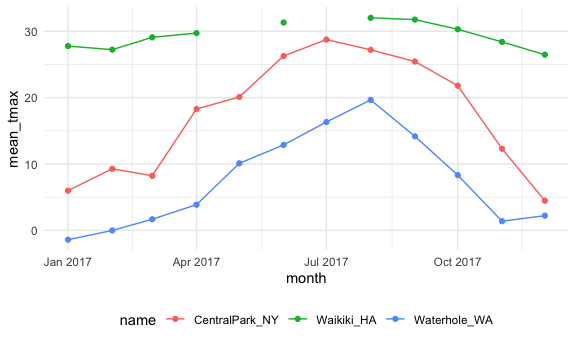
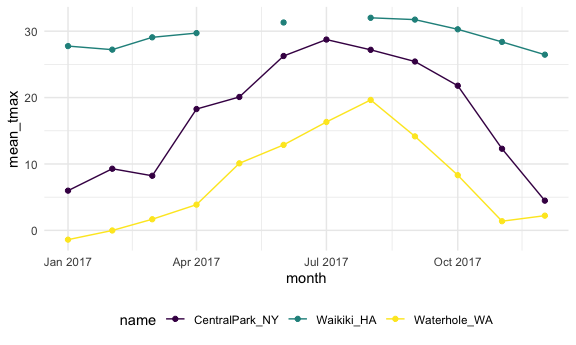
group_by, mutate, and summaries

diff --git a/viz_3.md b/viz_3.md
@@ -32,7 +32,7 @@ options(
   ggplot2.continuous.fill = "viridis"
 )
 
-scale_color_discrete = scale_color_viridis_d
+scale_colour_discrete = scale_colour_viridis_d
 scale_fill_discrete = scale_fill_viridis_d
 ```
 
@@ -338,3 +338,117 @@ weather_df %>%
 | 2017-10-01 |            21.8 |        30.3 |           8.3 |
 | 2017-11-01 |            12.3 |        28.4 |           1.4 |
 | 2017-12-01 |             4.5 |        26.5 |           2.2 |
+
+## `group_by` and `mutate`
+
+``` r
+weather_df %>%
+  group_by(name) %>%
+  mutate(
+    mean_tmax = mean(tmax, na.rm = TRUE),
+    centered_tmax = tmax - mean_tmax) %>% 
+  ggplot(aes(x = date, y = centered_tmax, color = name)) + 
+    geom_point()
+```
+
+    ## Warning: Removed 3 rows containing missing values (geom_point).
+
+<img src="viz_3_files/figure-gfm/unnamed-chunk-13-1.png" width="90%" />
+
+what about window function
+
+Ranking
+
+``` r
+weather_df %>%
+  group_by(name, month) %>%
+  mutate(temp_ranking = min_rank(tmax))
+```
+
+    ## # A tibble: 1,095 x 8
+    ## # Groups:   name, month [36]
+    ##    name          id         date        prcp  tmax  tmin month      temp_ranking
+    ##    <chr>         <chr>      <date>     <dbl> <dbl> <dbl> <date>            <int>
+    ##  1 CentralPark_… USW000947… 2017-01-01     0   8.9   4.4 2017-01-01           22
+    ##  2 CentralPark_… USW000947… 2017-01-02    53   5     2.8 2017-01-01           12
+    ##  3 CentralPark_… USW000947… 2017-01-03   147   6.1   3.9 2017-01-01           15
+    ##  4 CentralPark_… USW000947… 2017-01-04     0  11.1   1.1 2017-01-01           27
+    ##  5 CentralPark_… USW000947… 2017-01-05     0   1.1  -2.7 2017-01-01            5
+    ##  6 CentralPark_… USW000947… 2017-01-06    13   0.6  -3.8 2017-01-01            4
+    ##  7 CentralPark_… USW000947… 2017-01-07    81  -3.2  -6.6 2017-01-01            3
+    ##  8 CentralPark_… USW000947… 2017-01-08     0  -3.8  -8.8 2017-01-01            2
+    ##  9 CentralPark_… USW000947… 2017-01-09     0  -4.9  -9.9 2017-01-01            1
+    ## 10 CentralPark_… USW000947… 2017-01-10     0   7.8  -6   2017-01-01           21
+    ## # … with 1,085 more rows
+
+``` r
+#mutate(temp_ranking = min_rank(desc(tmax)))
+```
+
+keep only the day with the lowest max temperature within each month:
+
+``` r
+weather_df %>%
+  group_by(name, month) %>%
+  filter(min_rank(tmax) < 2)
+```
+
+    ## # A tibble: 42 x 7
+    ## # Groups:   name, month [36]
+    ##    name           id          date        prcp  tmax  tmin month     
+    ##    <chr>          <chr>       <date>     <dbl> <dbl> <dbl> <date>    
+    ##  1 CentralPark_NY USW00094728 2017-01-09     0  -4.9  -9.9 2017-01-01
+    ##  2 CentralPark_NY USW00094728 2017-02-10     0   0    -7.1 2017-02-01
+    ##  3 CentralPark_NY USW00094728 2017-03-15     0  -3.2  -6.6 2017-03-01
+    ##  4 CentralPark_NY USW00094728 2017-04-01     0   8.9   2.8 2017-04-01
+    ##  5 CentralPark_NY USW00094728 2017-05-13   409  11.7   7.2 2017-05-01
+    ##  6 CentralPark_NY USW00094728 2017-06-06    15  14.4  11.1 2017-06-01
+    ##  7 CentralPark_NY USW00094728 2017-07-25     0  21.7  16.7 2017-07-01
+    ##  8 CentralPark_NY USW00094728 2017-08-29    74  20    16.1 2017-08-01
+    ##  9 CentralPark_NY USW00094728 2017-09-30     0  18.9  12.2 2017-09-01
+    ## 10 CentralPark_NY USW00094728 2017-10-31     0  13.9   7.2 2017-10-01
+    ## # … with 32 more rows
+
+keep the three days with the highest max temperature:
+
+``` r
+weather_df %>%
+  group_by(name, month) %>%
+  filter(min_rank(desc(tmax)) < 4)
+```
+
+    ## # A tibble: 149 x 7
+    ## # Groups:   name, month [36]
+    ##    name           id          date        prcp  tmax  tmin month     
+    ##    <chr>          <chr>       <date>     <dbl> <dbl> <dbl> <date>    
+    ##  1 CentralPark_NY USW00094728 2017-01-12    13  18.9   8.3 2017-01-01
+    ##  2 CentralPark_NY USW00094728 2017-01-13     0  16.7   0   2017-01-01
+    ##  3 CentralPark_NY USW00094728 2017-01-26     5  13.3   6.1 2017-01-01
+    ##  4 CentralPark_NY USW00094728 2017-02-19     0  18.3  11.7 2017-02-01
+    ##  5 CentralPark_NY USW00094728 2017-02-23     0  18.3   6.7 2017-02-01
+    ##  6 CentralPark_NY USW00094728 2017-02-24     0  21.1  14.4 2017-02-01
+    ##  7 CentralPark_NY USW00094728 2017-03-01    30  21.1  12.2 2017-03-01
+    ##  8 CentralPark_NY USW00094728 2017-03-02     0  17.8   1.7 2017-03-01
+    ##  9 CentralPark_NY USW00094728 2017-03-25     3  16.7   5.6 2017-03-01
+    ## 10 CentralPark_NY USW00094728 2017-04-16     0  30.6  15   2017-04-01
+    ## # … with 139 more rows
+
+lag:
+
+``` r
+weather_df %>%
+  group_by(name) %>%
+  mutate(temp_change = tmax - lag(tmax)) %>% 
+  summarize(
+    temp_change_sd = sd(temp_change, na.rm = TRUE),
+    temp_change_max = max(temp_change, na.rm = TRUE))
+```
+
+    ## `summarise()` ungrouping output (override with `.groups` argument)
+
+    ## # A tibble: 3 x 3
+    ##   name           temp_change_sd temp_change_max
+    ##   <chr>                   <dbl>           <dbl>
+    ## 1 CentralPark_NY           4.45            12.7
+    ## 2 Waikiki_HA               1.23             6.7
+    ## 3 Waterhole_WA             3.13             8
